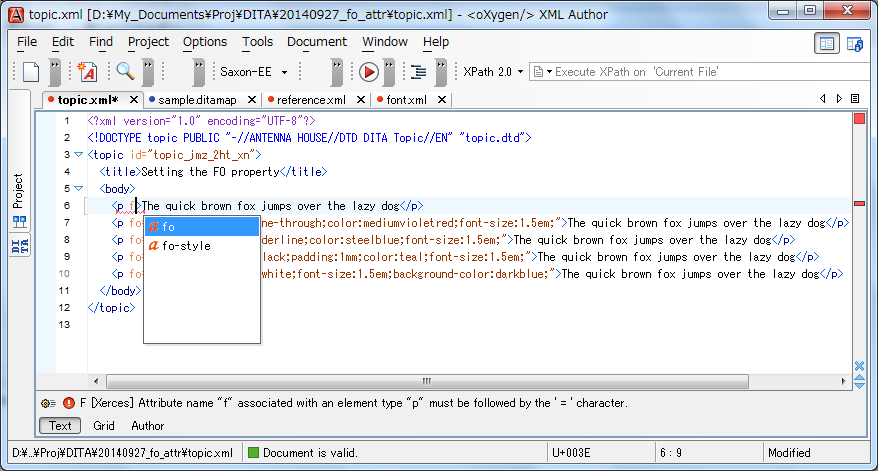
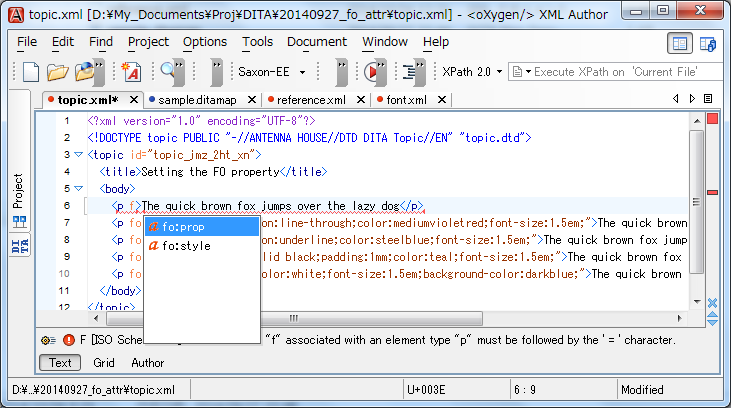
Update README.md
Change the description to use "fo:prop" attribute.

Changed region(s): [[0.0, 0.0, 1.0, 1.0], [0.9029, 0.7647, 0.933, 0.7941]]

diff --git a/README.md b/README.md
@@ -1,5 +1,5 @@
 # ah-dita #
-ah-dita is the DITA 1.2 specialization that enables authoring the style information by "fo" property for PDF output. 
+ah-dita is the DITA 1.2 specialization that enables authoring the style information by "fo:prop" property for PDF output. 
 It is composed of set of DTD files and it can be used as plug-in for [DITA Open Toolkit] [3].
 This specialization works with [PDF5] [7] plug-in V2.1.4 or later.
 
@@ -15,35 +15,35 @@ Here are some examples authored by this specialization:
 ![Set FO property](images/set_fo_property.png)
 
 ```xml
-    <p>The quick brown fox jumps over the lazy dog</p>
-    <p fo="text-decoration:line-through;color:mediumvioletred;font-size:1.5em;">The quick brown fox jumps over the lazy dog</p>
-    <p fo="text-decoration:underline;color:steelblue;font-size:1.5em;">The quick brown fox jumps over the lazy dog</p>
-    <p fo="border:1pt solid black;padding:1mm;color:teal;font-size:1.5em;">The quick brown fox jumps over the lazy dog</p>
-    <p fo="padding:1mm;color:white;font-size:1.5em;background-color:darkblue;">The quick brown fox jumps over the lazy dog</p>
+<p>The quick brown fox jumps over the lazy dog</p>
+<p fo:prop="text-decoration:line-through;color:mediumvioletred;font-size:1.5em;">The quick brown fox jumps over the lazy dog</p>
+<p fo:prop="text-decoration:underline;color:steelblue;font-size:1.5em;">The quick brown fox jumps over the lazy dog</p>
+<p fo:prop="border:1pt solid black;padding:1mm;color:teal;font-size:1.5em;">The quick brown fox jumps over the lazy dog</p>
+<p fo:prop="padding:1mm;color:white;font-size:1.5em;background-color:darkblue;">The quick brown fox jumps over the lazy dog</p>
 ```
 
 ![Assigning fonts](images/assigning_fonts.png)
 
 ```xml
-    <p>TOC is written as "<ph fo="font-family:MS Gothic;color:midnightblue;">目次</ph>" in <ph fo="color:darkgreen;">Japanese.</ph></p>
-    <p>TOC is written as "<ph fo="font-family:SimHei;color:midnightblue;">目录</ph>" in <ph fo="color:green;">Simplified Chinese.</ph></p>
-    <p>TOC is written as "<ph fo="font-family:Microsoft JhengHei;color:midnightblue;">目錄</ph>" in <ph fo="color:forestgreen;">Traditional Chinese.</ph></p>
-    <p>TOC is written as "<ph fo="font-family:Gulim;color:midnightblue;">목차</ph>" in <ph fo="color:seagreen;">Korean.</ph></p>
+<p>TOC is written as "<ph fo:prop="font-family:MS Gothic;color:midnightblue;">目次</ph>" in <ph fo:prop="color:darkgreen;">Japanese.</ph></p>
+<p>TOC is written as "<ph fo:prop="font-family:SimHei;color:midnightblue;">目录</ph>" in <ph fo:prop="color:green;">Simplified Chinese.</ph></p>
+<p>TOC is written as "<ph fo:prop="font-family:Microsoft JhengHei;color:midnightblue;">目錄</ph>" in <ph fo:prop="color:forestgreen;">Traditional Chinese.</ph></p>
+<p>TOC is written as "<ph fo:prop="font-family:Gulim;color:midnightblue;">목차</ph>" in <ph fo:prop="color:seagreen;">Korean.</ph></p>
 ```
 
 ![Table customization](images/table_customization.png)
 
 ```xml
-    <table fo="font-size:12pt;font-family:Arial;">
-      <tgroup cols="3">
-        <colspec colnum="1" align="center"/>
-        <thead fo="text-align:center;background-color:lavender;">
-          <row>
-            <entry fo="border-bottom-width:2pt;border-bottom-style:double;">No.</entry>
-            <entry fo="border-bottom-width:2pt;border-bottom-style:double;">Item</entry>
-            <entry fo="border-bottom-width:2pt;border-bottom-style:double;">Role</entry>
-          </row>
-        </thead>
+<table fo:prop="font-size:12pt;font-family:Arial;">
+  <tgroup cols="3">
+    <colspec colnum="1" align="center"/>
+    <thead fo:prop="text-align:center;background-color:lavender;">
+      <row>
+        <entry fo:prop="border-bottom-width:2pt;border-bottom-style:double;">No.</entry>
+        <entry fo:prop="border-bottom-width:2pt;border-bottom-style:double;">Item</entry>
+        <entry fo:prop="border-bottom-width:2pt;border-bottom-style:double;">Role</entry>
+      </row>
+    </thead>
 ```
 
 ## How to use ##
@@ -69,10 +69,10 @@ Use follwoing public identifier for your document type declaration.
 
 ### Add fo attribute ###
 
-Add fo attribute using XSL-FO properties in CSS notation.
+Add fo:prop attribute using XSL-FO properties in CSS notation.
 
 ```xml
-<p fo="color:red;">The quick brown fox jumps over the lazy dog</p>
+<p fo:prop="color:red;">The quick brown fox jumps over the lazy dog</p>
 ```
 
 ![Select fo attribute](images/fo_attr.png)
